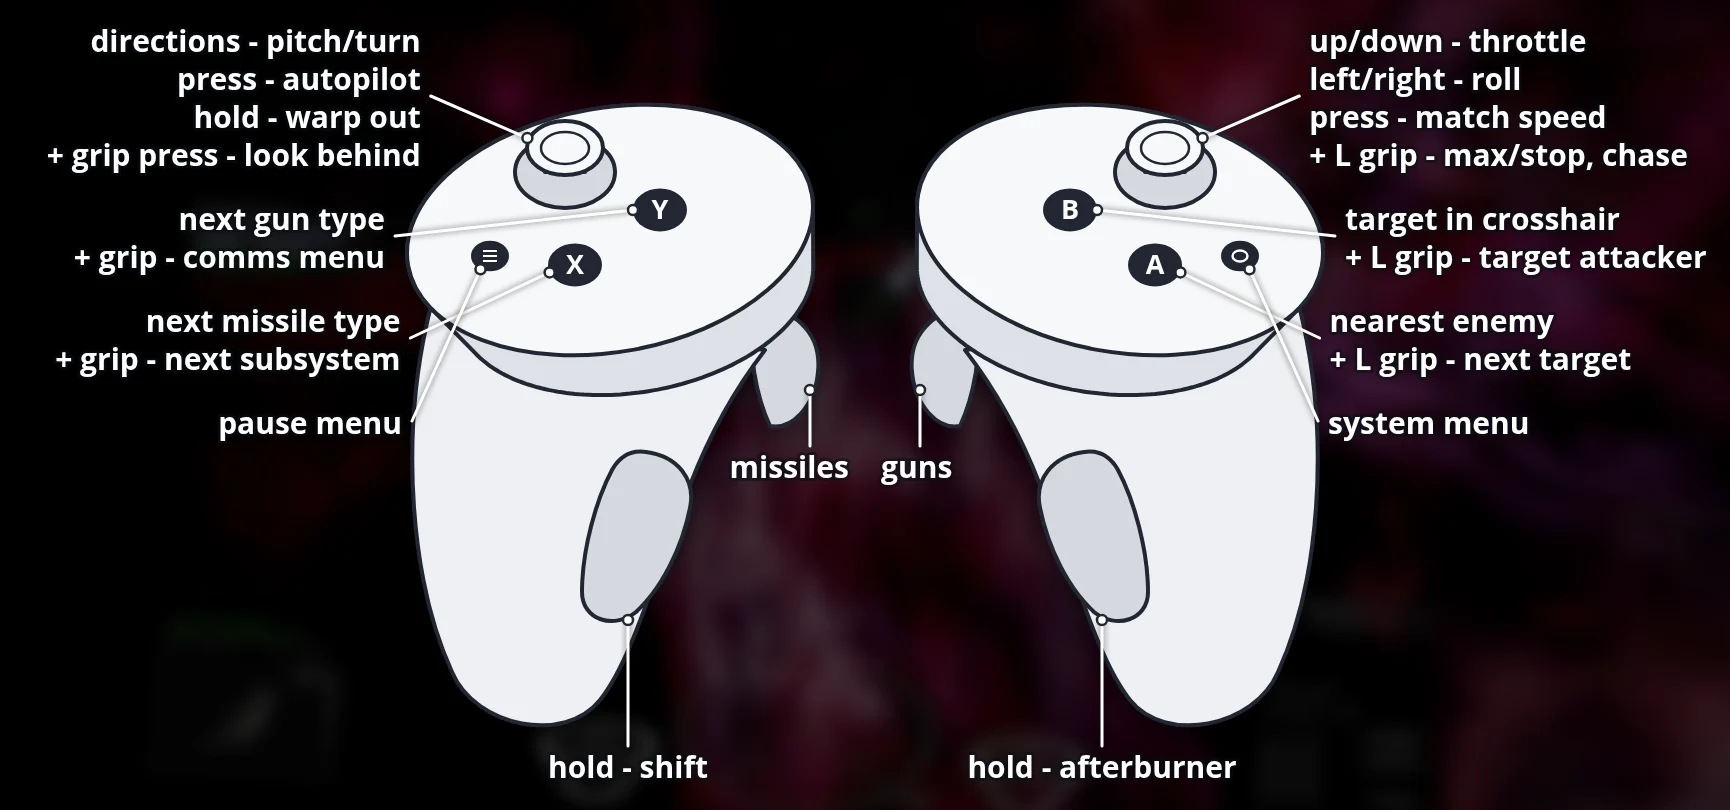
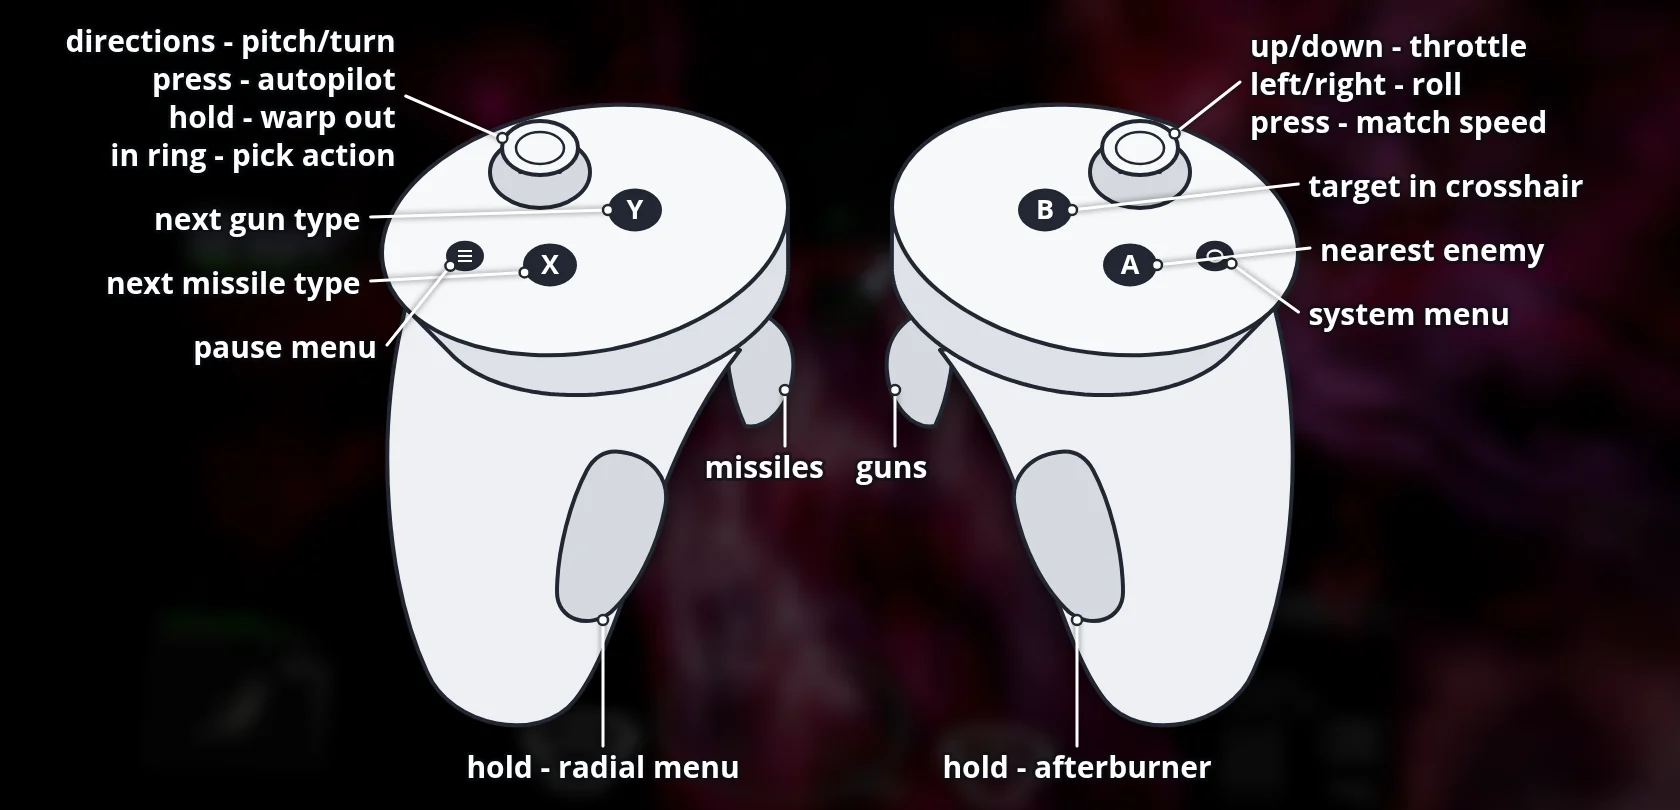
FreeSpace 2 VR 0.1.4-beta: README and controller picture with the radial menu

diff --git a/README-QUEST.md b/README-QUEST.md
@@ -73,13 +73,7 @@ in Options > Controls, "Reset to default" restores this layout):
 | X | Next missile type |
 | Y | Next gun type |
 | Left Menu button | Pause menu |
-| Left grip + A | Next target |
-| Left grip + B | Target your target's attacker |
-| Left grip + X | Next subsystem on target |
-| Left grip + Y | Comms menu |
-| Left grip + right stick up / down | Full speed / full stop |
-| Left grip + left stick click | Look behind |
-| Left grip + right stick click | Chase view on / off |
+| Left grip (hold) + left stick, release the grip | Radial menu above your left hand: shields front / rear, next target, target attacker, next subsystem, countermeasure, nearest friendly, escort ship, bombs / bombers, chase view, comms menu, warp out, balance power, power to engines / shields / weapons |
 
 Comms menu open: left stick up/down picks an order, A or a trigger confirms,
 Y closes the menu.
